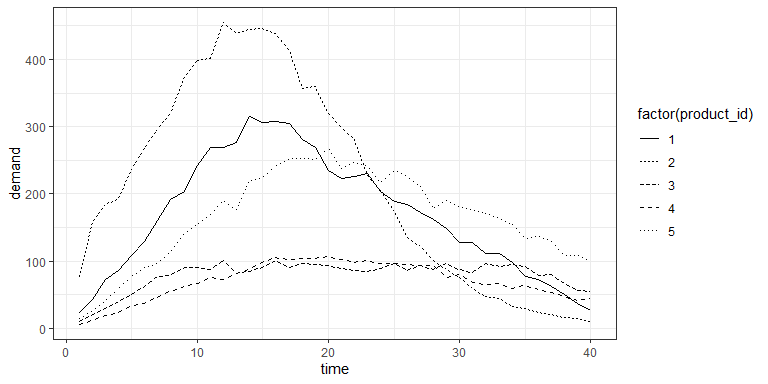
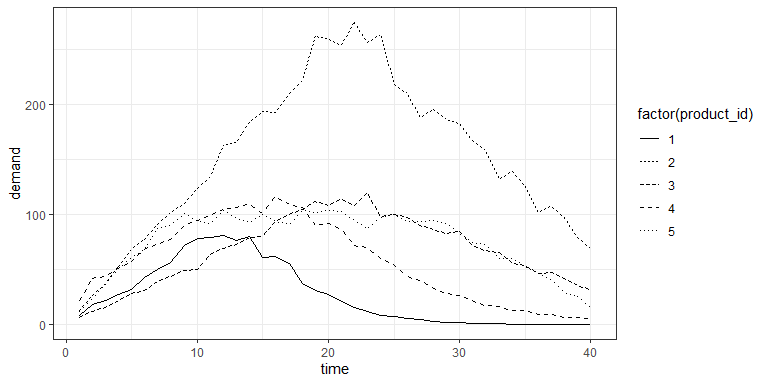
Update the README

diff --git a/README.md b/README.md
@@ -47,20 +47,21 @@ str(npd_data1)
 #> 'data.frame':    8000 obs. of  13 variables:
 #>  $ product_id : int  1 1 1 1 1 1 1 1 1 1 ...
 #>  $ time       : num  1 2 3 4 5 6 7 8 9 10 ...
-#>  $ demand     : num  17 33 45 59 77 97 115 136 189 190 ...
-#>  $ attribute6 : num  0.767 0.767 0.767 0.767 0.767 ...
-#>  $ attribute7 : num  0.22 0.22 0.22 0.22 0.22 ...
-#>  $ attribute4 : num  0.569 0.569 0.569 0.569 0.569 ...
-#>  $ attribute2 : num  0.366 0.366 0.366 0.366 0.366 ...
-#>  $ attribute8 : num  0.519 0.519 0.519 0.519 0.519 ...
-#>  $ attribute3 : num  0.487 0.487 0.487 0.487 0.487 ...
-#>  $ attribute1 : num  0.179 0.179 0.179 0.179 0.179 ...
-#>  $ attribute5 : num  0.243 0.243 0.243 0.243 0.243 ...
-#>  $ attribute9 : num  0.943 0.943 0.943 0.943 0.943 ...
-#>  $ attribute10: num  0.625 0.625 0.625 0.625 0.625 ...
+#>  $ demand     : num  8 18 22 27 32 43 50 56 72 78 ...
+#>  $ attribute10: num  0.224 0.224 0.224 0.224 0.224 ...
+#>  $ attribute8 : num  0.924 0.924 0.924 0.924 0.924 ...
+#>  $ attribute1 : num  0.0923 0.0923 0.0923 0.0923 0.0923 ...
+#>  $ attribute5 : num  0.393 0.393 0.393 0.393 0.393 ...
+#>  $ attribute6 : num  0.74 0.74 0.74 0.74 0.74 ...
+#>  $ attribute4 : num  0.594 0.594 0.594 0.594 0.594 ...
+#>  $ attribute7 : num  0.618 0.618 0.618 0.618 0.618 ...
+#>  $ attribute3 : num  0.282 0.282 0.282 0.282 0.282 ...
+#>  $ attribute2 : num  0.368 0.368 0.368 0.368 0.368 ...
+#>  $ attribute9 : num  0.335 0.335 0.335 0.335 0.335 ...
 ```
 
-The demand for the products with product_id=1,2,…,5 is shown below:
+We show below, the plots of demand for the products with
+product_id=1,2,…,5:
 
 <img src="man/figures/README-unnamed-chunk-3-1.png" width="100%" />
 
